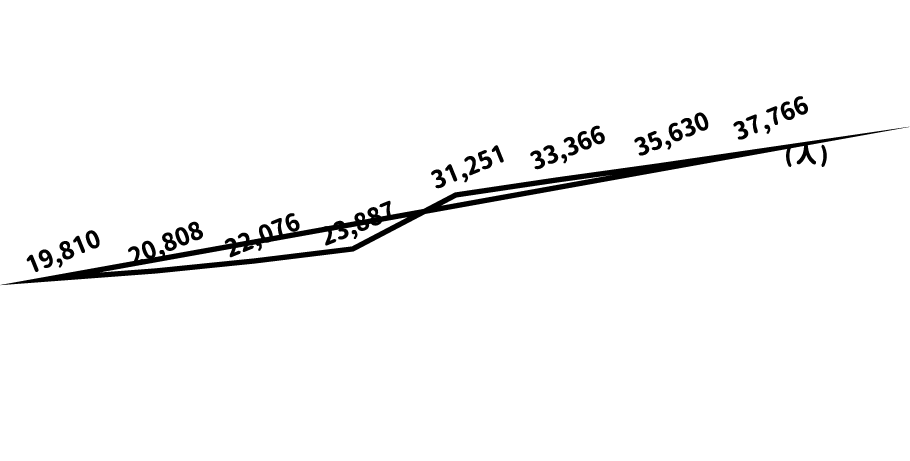
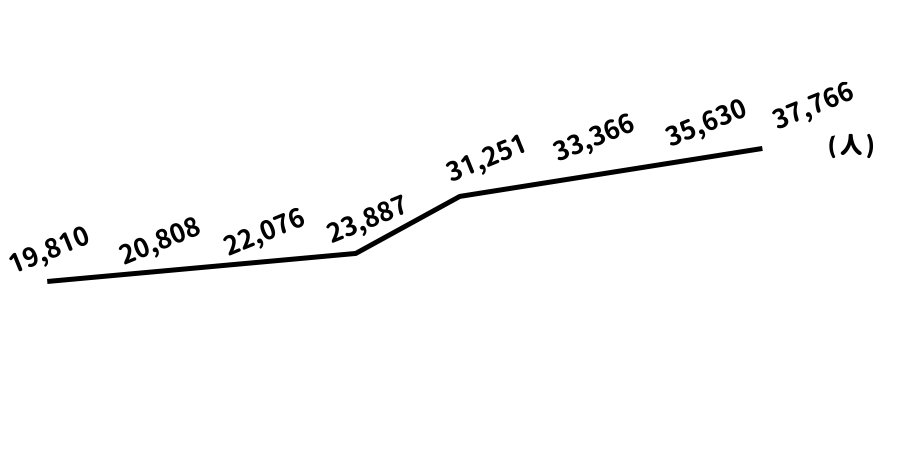
0624_台北樣式調整＋刪除舊圖

Changed region(s): [[0.0, 0.1822, 0.9846, 0.6377]]

diff --git a/taipei/assets/css/style2.css b/taipei/assets/css/style2.css
@@ -1,1 +1,1 @@
-[class^=chartNum_]{font-size:54px;font-weight:300}.chartNum_1,.chartNum_4{color:#ffb0a8}.chartNum_2,.chartNum_3,.chartNum_5{color:#8cf}.section4{background:#fffaf6;line-height:1.2;overflow-x:hidden;font-family:"Noto Sans TC",sans-serif;background:url("./../images/welfare_chart/bg-chart.png");background-size:100%;background-position:center top;background-repeat:no-repeat}@media all and (max-width: 769px){.section4{background-image:url("./../images/welfare_chart/bg-chart_mb.png");background-size:cover}}.section4 .container{max-width:1280px;margin:auto;padding:30px 0}.section4 img{max-width:100%}.section4__con{margin:10vw auto 0}.section4__con .section4__title--top{display:flex;align-items:center;padding:0 30px}.section4__con .section4__title--down{display:inline-block;padding:30px;border-radius:0 100px 100px 0;background:#ffb0a8}.section4__con:nth-child(even) .section4__title{text-align:right}.section4__con:nth-child(even) .section4__title--top{flex-direction:row-reverse}.section4__con:nth-child(even) .section4__title--top .pic{margin-right:30px}.section4__con:nth-child(even) .section4__title--down{background:#ffd470;border-radius:100px 0 0 100px}.section4__inner{padding:50px 0}@media all and (max-width: 769px){.section4__inner{padding:50px 30px}}.section4__con--chart1{margin-top:0}.section4__con--chart1 .section4__title .pic{position:relative;margin-bottom:-5px}.section4__inner1{display:flex;flex-wrap:wrap;justify-content:center;align-items:center;max-width:835px}.section4__inner1 .chart__inner{position:relative;display:inline-block}@media all and (max-width: 440px){.section4__inner1 .chart__inner .chart__inner--pic{width:280px}}.section4__inner1 .chart__inner .chart__inner--num{position:absolute;z-index:1;font-size:28px}@media all and (max-width: 440px){.section4__inner1 .chart__inner .chart__inner--num{font-size:20px}}.section4__inner1 .chart__inner:nth-child(1) .chart__inner--num{left:45px;bottom:40%}@media all and (max-width: 769px){.section4__inner1 .chart__inner:nth-child(2){transform:translate(30px, -5px)}}@media all and (min-width: 770px){.section4__inner1 .chart__inner:nth-child(2){transform:translate(-5px, 50px)}}.section4__inner1 .chart__inner:nth-child(2) .chart__inner--num{left:80px;top:17px}@media all and (max-width: 769px){.section4__inner1 .chart__inner:nth-child(3){transform:translate(-50px, -20px)}}@media all and (min-width: 770px){.section4__inner1 .chart__inner:nth-child(3){transform:translate(25px, -37px)}}.section4__inner1 .chart__inner:nth-child(3) .chart__inner--num{left:30px;bottom:80px}@media all and (max-width: 769px){.section4__inner1 .chart__inner:nth-child(4){transform:translate(22px, -35px)}}@media all and (min-width: 770px){.section4__inner1 .chart__inner:nth-child(4){transform:translate(22px, -10px)}}.section4__inner1 .chart__inner:nth-child(4) .chart__inner--num{left:80px;top:16px}@media all and (max-width: 769px){.section4__inner1 .chart__inner:nth-child(5){transform:translate(20px, -40px)}}@media all and (min-width: 770px){.section4__inner1 .chart__inner:nth-child(5){transform:translate(20px, -24px)}}.section4__inner1 .chart__inner:nth-child(5) .chart__inner--num{left:20px;bottom:95px}.section4__con--chart2 .section4__title .pic{position:relative;margin-bottom:-5px}@media all and (max-width: 769px){.section4__inner2{padding-left:0;padding-right:0}}@media all and (min-width: 770px){.section4__inner2{display:flex;align-items:flex-end}}.section4__inner2 .pic_box{position:relative}@media all and (max-width: 769px){.section4__inner2 .pic_box{width:85%;margin-top:50px}}@media all and (max-width: 440px){.section4__inner2 .pic_box img{width:70%}}.section4__inner2 .pic_box .dialogBox{position:absolute;top:-14%;left:40%;width:190px;padding:15px;font-size:30px;font-weight:700;text-align:center;border:solid 3px #000;background:#fff;border-radius:3px}@media all and (max-width: 769px){.section4__inner2 .pic_box .dialogBox{margin-top:-50px}}@media all and (max-width: 440px){.section4__inner2 .pic_box .dialogBox{margin-top:0px;transform:scale(0.7);top:-27%;left:19%}}.section4__inner2 .pic_box .dialogBox::after{content:"";position:absolute;left:50%;top:100%;display:block;width:30px;height:30px;margin:auto;background:url("./../images/welfare_chart/con2/con2-dialogBox.png") no-repeat center top 100%;transform:translate(-50%, -2px)}.section4__inner2 .pic_box .dialogBox .num{display:inline-block;width:36px}.section4__inner2 .chart_box{position:relative}.section4__inner2 .chart_box .mj_bg{position:absolute;left:0;bottom:0;right:0;top:0}.section4__inner2 .chart_box .chart_box_sub img{position:absolute;max-width:10%}.section4__inner2 .chart_box .chart_box_sub .dot_1{left:1%;bottom:50%}.section4__inner2 .chart_box .chart_box_sub .dot_2{left:13%;bottom:50%}.section4__inner2 .chart_box .chart_box_sub .dot_3{left:24%;bottom:53%}.section4__inner2 .chart_box .chart_box_sub .dot_4{left:35%;bottom:56%}.section4__inner2 .chart_box .chart_box_sub .dot_5{left:45.5%;bottom:66%}.section4__inner2 .chart_box .chart_box_sub .dot_6{left:57%;bottom:71%}.section4__inner2 .chart_box .chart_box_sub .dot_7{left:67.8%;bottom:74%}.section4__inner2 .chart_box .chart_box_sub .dot_8{left:77.5%;bottom:78.5%;max-width:15%;-webkit-animation-duration:1000ms;animation-duration:1000ms;-webkit-animation-iteration-count:infinite;animation-iteration-count:infinite;-webkit-animation-name:pulse;animation-name:pulse;-webkit-animation-direction:alternate;animation-direction:alternate;-webkit-animation-timing-function:ease-in-out;animation-timing-function:ease-in-out}@media all and (min-width: 770px){.section4__inner3{display:flex;align-items:center}}.section4__inner3 .left_box{position:relative}@media all and (max-width: 769px){.section4__inner3 .left_box{width:90%}}@media all and (max-width: 440px){.section4__inner3 .left_box{width:60%;margin:auto}}.section4__inner3 .left_box .women{position:relative;z-index:1;-webkit-animation-duration:2000ms;animation-duration:2000ms;-webkit-animation-iteration-count:infinite;animation-iteration-count:infinite;-webkit-animation-name:slideInDown;animation-name:slideInDown;-webkit-animation-direction:alternate;animation-direction:alternate;-webkit-animation-timing-function:ease-in-out;animation-timing-function:ease-in-out}@-webkit-keyframes slideInDown{0%{transform:translate3d(0, -7%, 0);visibility:visible}to{transform:translateZ(5%)}}@keyframes slideInDown{0%{transform:translate3d(0, -7%, 0);visibility:visible}to{transform:translateZ(5%)}}.section4__inner3 .left_box .earth{position:absolute;left:0;top:50%;margin-top:-50%}.section4__inner3 .right_box{font-weight:700}@media all and (min-width: 770px){.section4__inner3 .right_box{padding:0 0 60px 30px}}.section4__inner3 .right_box .con3-txt{display:block}.section4__inner3 .right_box .con3-txt.txt--3{margin-top:15px}.section4__inner3 .chirtLis{list-style-type:none;margin:0 0 30px;padding:0}.section4__inner3 .chirtLis li{display:flex;align-items:center;margin-bottom:15px}@media all and (max-width: 769px){.section4__inner3 .chirtLis li{flex-wrap:wrap}}.section4__inner3 .chirtLis .chirtLis__num{width:195px;margin-right:15px;font-size:90px}@media all and (max-width: 440px){.section4__inner3 .chirtLis .chirtLis__num{font-size:70px}}.section4__inner3 .chirtLis .chirtLis__chirt{position:relative}.section4__inner3 .chirtLis .chirtLis__chirt .sub{position:absolute;left:0;right:0;top:0}.section4__inner3 .chirtLis .chirtLis__chirt p{margin-top:10px;font-size:25px}@media all and (max-width: 440px){.section4__inner3 .chirtLis .chirtLis__chirt p{font-size:22px}}.section4__inner4{position:relative;text-align:center;padding-left:0;padding-right:0}.section4__inner4 .dot{display:inline-block;vertical-align:middle;width:40px;height:40px;line-height:40px;border-radius:5rem;background:#b3dfff;font-size:22px;font-weight:700;text-align:center}.section4__inner4 .pic_box{position:relative;text-align:center}@media all and (max-width: 1280px){.section4__inner4 .pic_box{width:44%;margin-left:3%}}@media all and (max-width: 1024px){.section4__inner4 .pic_box{display:inline-block;width:auto;margin-left:0}}@media all and (min-width: 1025px){.section4__inner4 .pic_box{position:absolute;left:50%;top:50%;max-width:50%;transform:translate(-50%, -50%)}}@media all and (min-width: 1025px){.section4__inner4 .pic_box .map{margin-bottom:15%}}@media all and (max-width: 1024px){.section4__inner4 .pic_box .mapDots{display:none}}@media all and (min-width: 1025px){.section4__inner4 .pic_box .mapDots{position:absolute;left:0;top:0}}.section4__inner4 .pic_box .dots_sp{list-style-type:none;margin:0;padding:0}@media all and (min-width: 1025px){.section4__inner4 .pic_box .dots_sp{display:none}}.section4__inner4 .pic_box .dots_sp .dot{position:absolute}.section4__inner4 .pic_box .dots_sp .dot_1{left:70%;top:59%}.section4__inner4 .pic_box .dots_sp .dot_2{left:62%;top:78%}.section4__inner4 .pic_box .dots_sp .dot_3{left:62%;top:89%}.section4__inner4 .pic_box .dots_sp .dot_4{left:52%;top:89%}.section4__inner4 .pic_box .dots_sp .dot_5{left:25%;top:49%}.section4__inner4 .pic_box .dots_sp .dot_6{left:18%;top:65%}.section4__inner4 .pic_box .dots_sp .dot_7{left:50%;top:50%}.section4__inner4 .info_box{margin:30px 0}@media all and (min-width: 1025px){.section4__inner4 .info_box{display:flex;align-items:flex-end;justify-content:space-between;flex-direction:row-reverse}}.section4__inner4 .chirtLis{list-style-type:none;margin:0;padding:0;text-align:left}.section4__inner4 .chirtLis:nth-child(odd){text-align:right}.section4__inner4 .chirtLis__item{margin-bottom:15px}.section4__inner4 .chirtLis__item .dot{width:60px;height:60px;line-height:60px;font-size:50px;margin-left:30px;margin-right:30px}@media all and (min-width: 1025px){.section4__inner4 .chirtLis__item .dot{display:none}}@media all and (max-width: 440px){.section4__inner4 .chirtLis__item .dot{width:40px;height:40px;line-height:2.3rem;font-size:30px;margin-left:20px;margin-right:20px}}.section4__inner4 .chirtLis__item .icon{display:inline-block;vertical-align:middle}.section4__inner4 .chirtLis__item .chirtLis__num{display:inline-block;vertical-align:middle;font-size:50px;font-weight:700}.section4__con--chart5{margin-top:10vw}.section4__con--chart5 .section4__title--top{margin-bottom:30px}.section4__inner5{padding-left:15px;padding-right:15px}@media all and (min-width: 770px){.section4__inner5{display:flex;align-items:center}}.section4__inner5 .left_box{position:relative}.section4__inner5 .left_box .chirt_num{position:absolute;left:0;right:0}.section4__inner5 .left_box .chartLis{position:absolute;left:6.6%;right:33%;top:9%;bottom:16%;list-style-type:none;margin:0;padding:0;display:flex;flex-direction:column;justify-content:space-between}.section4__inner5 .left_box .chartLis .chartLine{position:relative;display:flex;justify-content:flex-start;align-content:center;align-items:stretch;width:0;height:9%;background:#7f7d7b;border-radius:0 5rem 5rem 0;transition:all 2s ease-in-out}.section4__inner5 .left_box .chartLis .chartLine__line1--Ani{width:100%}.section4__inner5 .left_box .chartLis .chartLine__line2--Ani{width:87%}.section4__inner5 .left_box .chartLis .chartLine__line3--Ani{width:80%}.section4__inner5 .left_box .chartLis .chartLine__line4--Ani{width:72%}.section4__inner5 .left_box .chartLis .chartLine__line5--Ani{width:65%}.section4__inner5 .left_box .chartLis .chartLine__line6--Ani{width:58%}.section4__inner5 .left_box .chartLis .chartLine__line7--Ani{width:50%}.section4__inner5 .left_box .chartLis .chartLine__line8--Ani{width:40%}.section4__inner5 .left_box .chartLis .chartLine .chart_num{position:absolute;right:0;top:0;bottom:0;color:#fff;font-size:22px;padding:0 15px 0 0}@media all and (max-width: 769px){.section4__inner5 .left_box .chartLis .chartLine .chart_num{font-size:3.25vw}}.section4__inner5 .right_box{text-align:right}@media all and (min-width: 770px){.section4__inner5 .right_box{transform:scale(1.2);transform-origin:right bottom}}@media all and (max-width: 440px){.section4__inner5 .right_box{width:70%;margin:40px 0 0 auto}}@media all and (min-width: 770px){.section4__con--chart6 .section4__con__top{display:flex;flex-direction:row-reverse}}@media all and (min-width: 770px){.section4__con--chart6 .section4__con__top>*{width:50%}}.section4__con--chart6 .section4__con__top .section4__pic{text-align:center}@media all and (max-width: 769px){.section4__con--chart6 .section4__con__top .section4__pic{padding:30px}}@media all and (max-width: 440px){.section4__con--chart6 .section4__con__top .section4__pic{width:70%;margin:auto}}@media all and (min-width: 991px){.section4 .chirt2_item{display:flex;align-items:center;flex-wrap:wrap}}.section4 .chirt2_item .numGroup{position:relative;display:flex;width:115px;height:115px;border-radius:100%;color:#fff;background:#3a3a3a;border-radius:100%}@media all and (max-width: 440px){.section4 .chirt2_item .numGroup{margin:auto}}.section4 .chirt2_item .numGroup .num{margin:auto;font-size:50px}.section4 .chirt2_item .numGroup .num.small{font-size:40px}.section4 .chirt2_item .numGroup .numUnit{position:absolute;right:-25px;bottom:10px;width:42px;height:42px;border-radius:100%;font-size:22px;background:#3a3a3a;text-align:center;line-height:40px}.section4 .chirt2_item .txt{padding:15px 15px 15px 60px}@media all and (max-width: 440px){.section4 .chirt2_item .txt{padding:0}}@media all and (max-width: 440px){.section4 .chirt2_item .txt img{margin:20px auto;display:block;height:25px}}.section4__inner6{padding-top:0}@media all and (max-width: 769px){.section4__inner6{padding-left:0;padding-right:0}}.section4__inner6__top{padding:30px;border-bottom:solid 2px #3a3a3a}@media all and (min-width: 770px){.section4__inner6__top{margin-top:-150px;display:flex;flex-direction:row-reverse;align-items:flex-end;justify-content:space-between}}.section4__inner6__top .chirtGroup{position:relative;max-width:720px}@media all and (max-width: 769px){.section4__inner6__top .chirtGroup{margin-bottom:30px}}.section4__inner6__top .chirtGroup .sub_bg{position:absolute;right:0;top:0}.section4__inner6__top .chirtGroup .mj_dot{position:absolute;right:0;top:0;-webkit-animation-duration:1000ms;animation-duration:1000ms;-webkit-animation-iteration-count:infinite;animation-iteration-count:infinite;-webkit-animation-name:pulse;animation-name:pulse;-webkit-animation-direction:alternate;animation-direction:alternate;-webkit-animation-timing-function:ease-in-out;animation-timing-function:ease-in-out}@media all and (max-width: 769px){.section4__inner6__top .chirtGroup .mj_dot{top:-15px}}.section4__inner6__bottom{padding:30px}@media all and (min-width: 770px){.section4__inner6__bottom{display:flex;justify-content:space-between;align-items:center;flex-wrap:wrap}}@media all and (max-width: 440px){.section4__inner6__bottom{display:flex;flex-wrap:wrap;justify-content:space-between;align-items:center}}.section4__inner6__bottom .chirt2_item{margin-bottom:30px}@media all and (min-width: 770px){.section4__inner6__bottom .chirt2_item{width:50%}}.section4__inner6 .bottom_info{display:block;margin:30px auto}@media all and (max-width: 440px){.section4__inner6 .bottom_info{width:40%;margin:0px auto}}/*# sourceMappingURL=style2.css.map */
+[class^=chartNum_]{font-size:54px;font-weight:300}.chartNum_1,.chartNum_4{color:#ffb0a8}.chartNum_2,.chartNum_3,.chartNum_5{color:#8cf}.section4{background:#fffaf6;line-height:1.2;overflow-x:hidden;font-family:"Noto Sans TC",sans-serif;background:url("./../images/welfare_chart/bg-chart.png");background-size:100%;background-position:center top;background-repeat:no-repeat}@media all and (max-width: 769px){.section4{background-image:url("./../images/welfare_chart/bg-chart_mb.png");background-size:cover}}.section4 .container{max-width:1280px;margin:auto;padding:30px 0}.section4 img{max-width:100%}.section4__con{margin:10vw auto 0}.section4__con .section4__title--top{display:flex;align-items:center;padding:0 30px}.section4__con .section4__title--down{display:inline-block;padding:30px;border-radius:0 100px 100px 0;background:#ffb0a8}.section4__con:nth-child(even) .section4__title{text-align:right}.section4__con:nth-child(even) .section4__title--top{flex-direction:row-reverse}.section4__con:nth-child(even) .section4__title--top .pic{margin-right:30px}.section4__con:nth-child(even) .section4__title--down{background:#ffd470;border-radius:100px 0 0 100px}.section4__inner{padding:50px 0}@media all and (max-width: 769px){.section4__inner{padding:50px 30px}}.section4__con--chart1{margin-top:0}.section4__con--chart1 .section4__title .pic{position:relative;margin-bottom:-5px}.section4__inner1{display:flex;flex-wrap:wrap;justify-content:center;align-items:center;max-width:835px}.section4__inner1 .chart__inner{position:relative;display:inline-block}@media all and (max-width: 440px){.section4__inner1 .chart__inner .chart__inner--pic{width:280px}}.section4__inner1 .chart__inner .chart__inner--num{position:absolute;z-index:1;font-size:28px}@media all and (max-width: 440px){.section4__inner1 .chart__inner .chart__inner--num{font-size:20px}}.section4__inner1 .chart__inner:nth-child(1) .chart__inner--num{left:45px;bottom:40%}@media all and (max-width: 769px){.section4__inner1 .chart__inner:nth-child(2){transform:translate(30px, -5px)}}@media all and (min-width: 770px){.section4__inner1 .chart__inner:nth-child(2){transform:translate(-5px, 50px)}}.section4__inner1 .chart__inner:nth-child(2) .chart__inner--num{left:80px;top:17px}@media all and (max-width: 769px){.section4__inner1 .chart__inner:nth-child(3){transform:translate(-50px, -20px)}}@media all and (min-width: 770px){.section4__inner1 .chart__inner:nth-child(3){transform:translate(25px, -37px)}}.section4__inner1 .chart__inner:nth-child(3) .chart__inner--num{left:30px;bottom:80px}@media all and (max-width: 769px){.section4__inner1 .chart__inner:nth-child(4){transform:translate(22px, -35px)}}@media all and (min-width: 770px){.section4__inner1 .chart__inner:nth-child(4){transform:translate(22px, -10px)}}.section4__inner1 .chart__inner:nth-child(4) .chart__inner--num{left:80px;top:16px}@media all and (max-width: 769px){.section4__inner1 .chart__inner:nth-child(5){transform:translate(20px, -40px)}}@media all and (min-width: 770px){.section4__inner1 .chart__inner:nth-child(5){transform:translate(20px, -24px)}}.section4__inner1 .chart__inner:nth-child(5) .chart__inner--num{left:20px;bottom:95px}.section4__con--chart2 .section4__title .pic{position:relative;margin-bottom:-5px}@media all and (max-width: 769px){.section4__inner2{padding-left:0;padding-right:0}}@media all and (min-width: 770px){.section4__inner2{display:flex;align-items:flex-end}}.section4__inner2 .pic_box{position:relative}@media all and (max-width: 769px){.section4__inner2 .pic_box{width:85%;margin-top:50px}}@media all and (max-width: 440px){.section4__inner2 .pic_box img{width:70%}}.section4__inner2 .pic_box .dialogBox{position:absolute;top:-14%;left:40%;width:190px;padding:15px;font-size:30px;font-weight:700;text-align:center;border:solid 3px #000;background:#fff;border-radius:3px}@media all and (max-width: 769px){.section4__inner2 .pic_box .dialogBox{margin-top:-50px}}@media all and (max-width: 440px){.section4__inner2 .pic_box .dialogBox{margin-top:0px;transform:scale(0.7);top:-27%;left:19%}}.section4__inner2 .pic_box .dialogBox::after{content:"";position:absolute;left:50%;top:100%;display:block;width:30px;height:30px;margin:auto;background:url("./../images/welfare_chart/con2/con2-dialogBox.png") no-repeat center top 100%;transform:translate(-50%, -2px)}.section4__inner2 .pic_box .dialogBox .num{display:inline-block;width:36px}.section4__inner2 .chart_box{position:relative}.section4__inner2 .chart_box .mj_bg{position:absolute;left:0;bottom:0;right:0;top:0}.section4__inner2 .chart_box .chart_box_sub img{position:absolute;max-width:10%}.section4__inner2 .chart_box .chart_box_sub .dot_1{left:1%;bottom:50%}.section4__inner2 .chart_box .chart_box_sub .dot_2{left:13%;bottom:50%}.section4__inner2 .chart_box .chart_box_sub .dot_3{left:24%;bottom:53%}.section4__inner2 .chart_box .chart_box_sub .dot_4{left:35%;bottom:56%}.section4__inner2 .chart_box .chart_box_sub .dot_5{left:45.5%;bottom:66%}.section4__inner2 .chart_box .chart_box_sub .dot_6{left:57%;bottom:71%}.section4__inner2 .chart_box .chart_box_sub .dot_7{left:67.8%;bottom:74%}.section4__inner2 .chart_box .chart_box_sub .dot_8{left:77.5%;bottom:78.5%;max-width:15%;-webkit-animation-duration:1000ms;animation-duration:1000ms;-webkit-animation-iteration-count:infinite;animation-iteration-count:infinite;-webkit-animation-name:pulse;animation-name:pulse;-webkit-animation-direction:alternate;animation-direction:alternate;-webkit-animation-timing-function:ease-in-out;animation-timing-function:ease-in-out}@media all and (min-width: 770px){.section4__inner3{display:flex;align-items:center}}.section4__inner3 .left_box{position:relative}@media all and (max-width: 769px){.section4__inner3 .left_box{width:90%}}@media all and (max-width: 440px){.section4__inner3 .left_box{width:60%;margin:auto}}.section4__inner3 .left_box .women{position:relative;z-index:1;-webkit-animation-duration:2000ms;animation-duration:2000ms;-webkit-animation-iteration-count:infinite;animation-iteration-count:infinite;-webkit-animation-name:slideInDown;animation-name:slideInDown;-webkit-animation-direction:alternate;animation-direction:alternate;-webkit-animation-timing-function:ease-in-out;animation-timing-function:ease-in-out}@-webkit-keyframes slideInDown{0%{transform:translate3d(0, -7%, 0);visibility:visible}to{transform:translateZ(5%)}}@keyframes slideInDown{0%{transform:translate3d(0, -7%, 0);visibility:visible}to{transform:translateZ(5%)}}.section4__inner3 .left_box .earth{position:absolute;left:0;top:50%;margin-top:-50%}.section4__inner3 .right_box{font-weight:700}@media all and (min-width: 770px){.section4__inner3 .right_box{padding:0 0 60px 30px}}.section4__inner3 .right_box .con3-txt{display:block}.section4__inner3 .right_box .con3-txt.txt--3{margin-top:15px}.section4__inner3 .chirtLis{list-style-type:none;margin:0 0 30px;padding:0}.section4__inner3 .chirtLis li{display:flex;align-items:center;margin-bottom:15px}@media all and (max-width: 769px){.section4__inner3 .chirtLis li{flex-wrap:wrap}}.section4__inner3 .chirtLis .chirtLis__num{width:195px;margin-right:15px;font-size:90px}@media all and (max-width: 440px){.section4__inner3 .chirtLis .chirtLis__num{font-size:70px}}.section4__inner3 .chirtLis .chirtLis__chirt{position:relative}.section4__inner3 .chirtLis .chirtLis__chirt .sub{position:absolute;left:0;right:0;top:0}.section4__inner3 .chirtLis .chirtLis__chirt p{margin-top:10px;font-size:25px}@media all and (max-width: 440px){.section4__inner3 .chirtLis .chirtLis__chirt p{font-size:22px}}.section4__inner4{position:relative;text-align:center;padding-left:0;padding-right:0}.section4__inner4 .dot{display:inline-block;vertical-align:middle;width:28px;height:28px;line-height:26px;border-radius:5rem;background:#b3dfff;font-size:18px;font-weight:400;text-align:center}.section4__inner4 .pic_box{position:relative;text-align:center}@media all and (max-width: 1280px){.section4__inner4 .pic_box{width:44%;margin-left:3%}}@media all and (max-width: 1024px){.section4__inner4 .pic_box{display:inline-block;width:auto;margin-left:0}}@media all and (min-width: 1025px){.section4__inner4 .pic_box{position:absolute;left:50%;top:50%;max-width:50%;transform:translate(-50%, -50%)}}@media all and (min-width: 1025px){.section4__inner4 .pic_box .map{margin-bottom:15%}}@media all and (max-width: 1024px){.section4__inner4 .pic_box .mapDots{display:none}}@media all and (min-width: 1025px){.section4__inner4 .pic_box .mapDots{position:absolute;left:0;top:0}}.section4__inner4 .pic_box .dots_sp{list-style-type:none;margin:0;padding:0}@media all and (min-width: 1025px){.section4__inner4 .pic_box .dots_sp{display:none}}.section4__inner4 .pic_box .dots_sp .dot{position:absolute}.section4__inner4 .pic_box .dots_sp .dot_1{left:70%;top:59%}.section4__inner4 .pic_box .dots_sp .dot_2{left:62%;top:78%}.section4__inner4 .pic_box .dots_sp .dot_3{left:62%;top:89%}.section4__inner4 .pic_box .dots_sp .dot_4{left:52%;top:89%}.section4__inner4 .pic_box .dots_sp .dot_5{left:25%;top:49%}.section4__inner4 .pic_box .dots_sp .dot_6{left:18%;top:65%}.section4__inner4 .pic_box .dots_sp .dot_7{left:50%;top:50%}.section4__inner4 .info_box{margin:30px 0}@media all and (min-width: 1025px){.section4__inner4 .info_box{display:flex;align-items:flex-end;justify-content:space-between;flex-direction:row-reverse}}.section4__inner4 .chirtLis{list-style-type:none;margin:0;padding:0;text-align:left}.section4__inner4 .chirtLis:nth-child(odd){text-align:right}.section4__inner4 .chirtLis__item{margin-bottom:15px}.section4__inner4 .chirtLis__item .dot{width:60px;height:60px;line-height:60px;font-size:50px;margin-left:30px;margin-right:30px}@media all and (min-width: 1025px){.section4__inner4 .chirtLis__item .dot{display:none}}@media all and (max-width: 440px){.section4__inner4 .chirtLis__item .dot{width:40px;height:40px;line-height:2.3rem;font-size:30px;margin-left:20px;margin-right:20px}}.section4__inner4 .chirtLis__item .icon{display:inline-block;vertical-align:middle}.section4__inner4 .chirtLis__item .chirtLis__num{display:inline-block;vertical-align:middle;font-size:50px;font-weight:700}.section4__con--chart5{margin-top:10vw}.section4__con--chart5 .section4__title--top{margin-bottom:30px}.section4__inner5{padding-left:15px;padding-right:15px}@media all and (min-width: 770px){.section4__inner5{display:flex;align-items:center}}.section4__inner5 .left_box{position:relative}.section4__inner5 .left_box .chirt_num{position:absolute;left:0;right:0}.section4__inner5 .left_box .chartLis{position:absolute;left:6.6%;right:33%;top:9%;bottom:16%;list-style-type:none;margin:0;padding:0;display:flex;flex-direction:column;justify-content:space-between}.section4__inner5 .left_box .chartLis .chartLine{position:relative;display:flex;justify-content:flex-start;align-content:center;align-items:stretch;width:0;height:9%;background:#7f7d7b;border-radius:0 5rem 5rem 0;transition:all 2s ease-in-out}.section4__inner5 .left_box .chartLis .chartLine__line1--Ani{width:100%}.section4__inner5 .left_box .chartLis .chartLine__line2--Ani{width:87%}.section4__inner5 .left_box .chartLis .chartLine__line3--Ani{width:80%}.section4__inner5 .left_box .chartLis .chartLine__line4--Ani{width:72%}.section4__inner5 .left_box .chartLis .chartLine__line5--Ani{width:65%}.section4__inner5 .left_box .chartLis .chartLine__line6--Ani{width:58%}.section4__inner5 .left_box .chartLis .chartLine__line7--Ani{width:50%}.section4__inner5 .left_box .chartLis .chartLine__line8--Ani{width:40%}.section4__inner5 .left_box .chartLis .chartLine .chart_num{position:absolute;right:0;top:0;bottom:0;color:#fff;font-size:22px;padding:0 15px 0 0}@media all and (max-width: 769px){.section4__inner5 .left_box .chartLis .chartLine .chart_num{font-size:3.25vw}}.section4__inner5 .right_box{text-align:right}@media all and (min-width: 770px){.section4__inner5 .right_box{transform:scale(1.2);transform-origin:right bottom}}@media all and (max-width: 440px){.section4__inner5 .right_box{width:70%;margin:40px 0 0 auto}}@media all and (min-width: 770px){.section4__con--chart6 .section4__con__top{display:flex;flex-direction:row-reverse}}@media all and (min-width: 770px){.section4__con--chart6 .section4__con__top>*{width:50%}}.section4__con--chart6 .section4__con__top .section4__pic{text-align:center}@media all and (max-width: 769px){.section4__con--chart6 .section4__con__top .section4__pic{padding:30px}}@media all and (max-width: 440px){.section4__con--chart6 .section4__con__top .section4__pic{width:70%;margin:auto}}@media all and (min-width: 991px){.section4 .chirt2_item{display:flex;align-items:center;flex-wrap:wrap}}.section4 .chirt2_item .numGroup{position:relative;display:flex;width:115px;height:115px;border-radius:100%;color:#000;background:#fed470;border-radius:100%}@media all and (max-width: 440px){.section4 .chirt2_item .numGroup{margin:auto}}.section4 .chirt2_item .numGroup .num{margin:auto;font-size:50px}.section4 .chirt2_item .numGroup .num.small{font-size:40px}.section4 .chirt2_item .numGroup .numUnit{position:absolute;right:-25px;bottom:10px;width:42px;height:42px;border-radius:100%;font-size:22px;background:#fed470;text-align:center;line-height:40px}.section4 .chirt2_item .txt{padding:15px 15px 15px 60px}@media all and (max-width: 440px){.section4 .chirt2_item .txt{padding:0}}@media all and (max-width: 440px){.section4 .chirt2_item .txt img{margin:20px auto;display:block;height:25px}}.section4__inner6{padding-top:0}@media all and (max-width: 769px){.section4__inner6{padding-left:0;padding-right:0}}.section4__inner6__top{padding:30px;border-bottom:solid 2px #3a3a3a}@media all and (min-width: 770px){.section4__inner6__top{margin-top:-150px;display:flex;flex-direction:row-reverse;align-items:flex-end;justify-content:space-between}}.section4__inner6__top .chirtGroup{position:relative;max-width:720px}@media all and (max-width: 769px){.section4__inner6__top .chirtGroup{margin-bottom:30px}}.section4__inner6__top .chirtGroup .sub_bg{position:absolute;right:0;top:0}.section4__inner6__top .chirtGroup .mj_dot{position:absolute;right:0;top:0;-webkit-animation-duration:1000ms;animation-duration:1000ms;-webkit-animation-iteration-count:infinite;animation-iteration-count:infinite;-webkit-animation-name:pulse;animation-name:pulse;-webkit-animation-direction:alternate;animation-direction:alternate;-webkit-animation-timing-function:ease-in-out;animation-timing-function:ease-in-out}@media all and (max-width: 769px){.section4__inner6__top .chirtGroup .mj_dot{top:-15px}}.section4__inner6__bottom{padding:30px}@media all and (min-width: 770px){.section4__inner6__bottom{display:flex;justify-content:space-between;align-items:center;flex-wrap:wrap}}@media all and (max-width: 440px){.section4__inner6__bottom{display:flex;flex-wrap:wrap;justify-content:space-between;align-items:center}}.section4__inner6__bottom .chirt2_item{margin-bottom:30px}@media all and (min-width: 770px){.section4__inner6__bottom .chirt2_item{width:50%}}.section4__inner6 .bottom_info{display:block;margin:30px auto}@media all and (max-width: 440px){.section4__inner6 .bottom_info{width:40%;margin:0px auto}}/*# sourceMappingURL=style2.css.map */

diff --git a/taipei/assets/scss/style2.scss b/taipei/assets/scss/style2.scss
@@ -512,13 +512,13 @@ sans-serif; //字體-一般中文
         .dot {
             display: inline-block;
             vertical-align: middle;
-            width: 40px;
-            height: 40px;
-            line-height: 40px;
+            width: 28px;
+            height: 28px;
+            line-height: 26px;
             border-radius: 5rem;
             background: #b3dfff;
-            font-size: 22px;
-            font-weight: 700;
+            font-size: 18px;
+            font-weight: 400;
             text-align: center;
         }
 
@@ -844,8 +844,8 @@ sans-serif; //字體-一般中文
             width: 115px;
             height: 115px;
             border-radius: 100%;
-            color: #fff;
-            background: #3a3a3a;
+            color: #000;
+            background: #fed470;
             border-radius: 100%;
             @include mb-width_l(){
                 margin: auto;
@@ -866,7 +866,7 @@ sans-serif; //字體-一般中文
                 height: 42px;
                 border-radius: 100%;
                 font-size: 22px;
-                background: #3a3a3a;
+                background: #fed470;
                 text-align: center;
                 line-height: 40px;
             }
